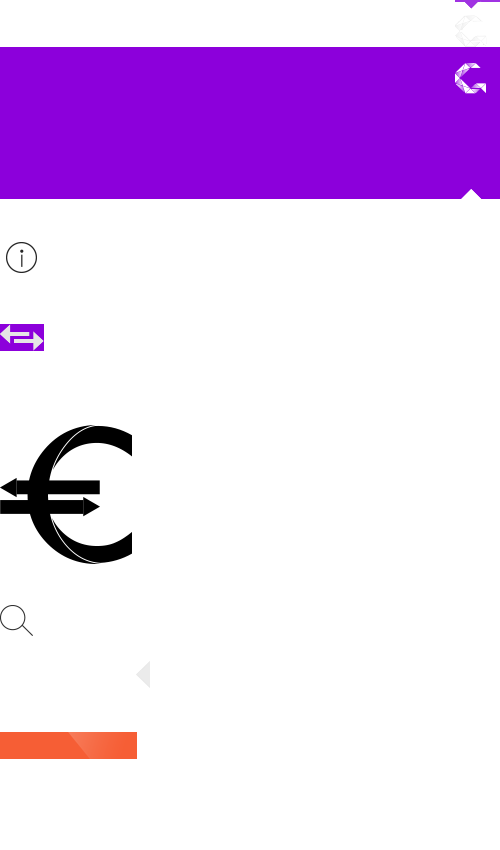
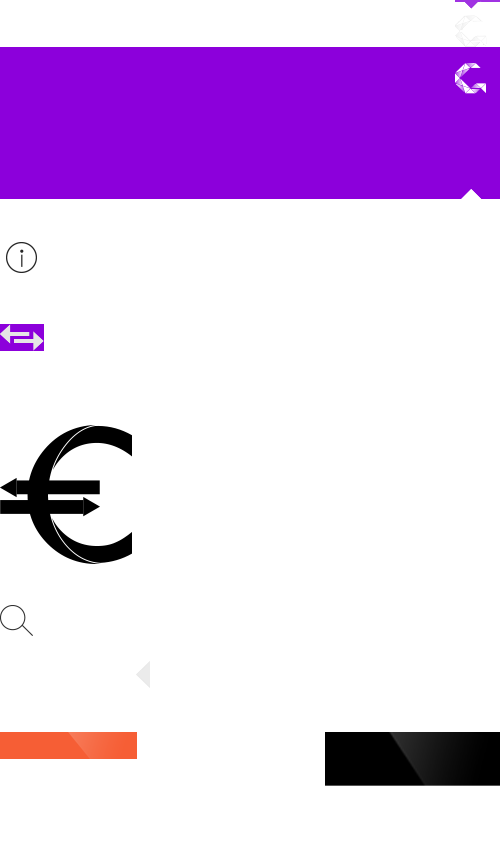
UI for money stuff; no action yet for redeem

Changed region(s): [[0.63, 0.8565, 1.0, 0.9482]]

diff --git a/catalogue/js/routes/application_route.js b/catalogue/js/routes/application_route.js
@@ -33,12 +33,14 @@ App.ApplicationRoute = Ember.Route.extend(
       promise = this.store.find('user', glomeid).then(function(data)
       {
         self.controllerFor('application').send('loadCategories', transition.params.category);
+        self.controllerFor('application').set('fresh', data.get('fresh'));
       });
     }
     else
     {
       promise = this.store.find('user');
     }
+
     return promise;
   },
   model: function(params, transition)
@@ -58,11 +60,11 @@ App.ApplicationRoute = Ember.Route.extend(
         controller.get('controllers.application').set('loggedin', true);
       });
     }
+
     controller.set('title', "Cashback Catalog");
     controller.set('categories', this.get('categories'));
     controller.set('contact', App.contact.email);
     controller.set('contactMailto', 'mailto: ' + App.contact.email + '?subject=' + App.contact.subject);
     controller.set('maintenance', App.maintenance || false);
-}
-
+  }
 });

diff --git a/catalogue/js/models/user.js b/catalogue/js/models/user.js
@@ -6,10 +6,19 @@ App.User = DS.Model.extend(
   glomeid: DS.attr('string'),
   status: DS.attr('boolean'),
   xcsrf: DS.attr('string'),
+  //"earnings":{"fresh":{},"pending":{},"failed":{},"paid":{},"transferred":{"EUR":110}}
+  earnings: DS.attr('raw'),
+  fresh: function()
+  {
+    var ret = false;
+    // Todo: parse different currencies separately, don't hardcode EUR
+    var money = (parseFloat(this.get('earnings')['fresh']['EUR'], 10) / 100).toFixed(2);
+    // Todo: do not hardocde this; get it from the server; minimum amount to redeem is 1 EUR
+    (money >= 1) ? ret = money.replace(/\./, ',') : ret = false;
+    return ret;
+  }.property('earnings'),
   didLoad: function(event)
   {
-    console.log(event);
-
     if (this.get('status'))
     {
       console.log('we have a current user: ' + this.get('id'));

diff --git a/catalogue/css/stylesheet.css b/catalogue/css/stylesheet.css
@@ -420,3 +420,28 @@ ul.subcategories
   margin-bottom: 20px;
   text-transform: uppercase;
 }
+.redeem .money
+{
+  font-size: 58px;
+}
+.redeem .money .symbol
+{
+  top: -20px;
+  font-size: 40px;
+  position: relative;
+}
+.redeem .button
+{
+  top: -15px;
+  left: 30px;
+  width: 175px;
+  height: 45px;
+  cursor: pointer;
+  font-size: 20px;
+  padding-top: 6px;
+  position: relative;
+  display: inline-block;
+  text-transform: uppercase;
+  background-position: left -325px top -732px;
+  background-image: url('/images/cbc.png');
+}

diff --git a/catalogue/index.html b/catalogue/index.html
@@ -74,6 +74,13 @@
       <div class="redeem menu" data-elem="3">
         Cashback Catalog is the world’s first anonymous human-controlled cash
         back service. Browse, shop and get paid!
+        {{#if controllers.application.fresh}}
+        <div class="money">
+          {{controllers.application.fresh}}
+          <span class="symbol eur">€</span>
+          <span class="button">redeem</span>
+        </div>
+        {{/if}}
       </div>
     </script>
 

diff --git a/catalogue/js/controllers/application.js b/catalogue/js/controllers/application.js
@@ -13,6 +13,7 @@ App.ApplicationController = Ember.ArrayController.extend(
   inProgress: false,
   notification: false,
   token: false,
+  fresh: false,
 
   actions:
   {
